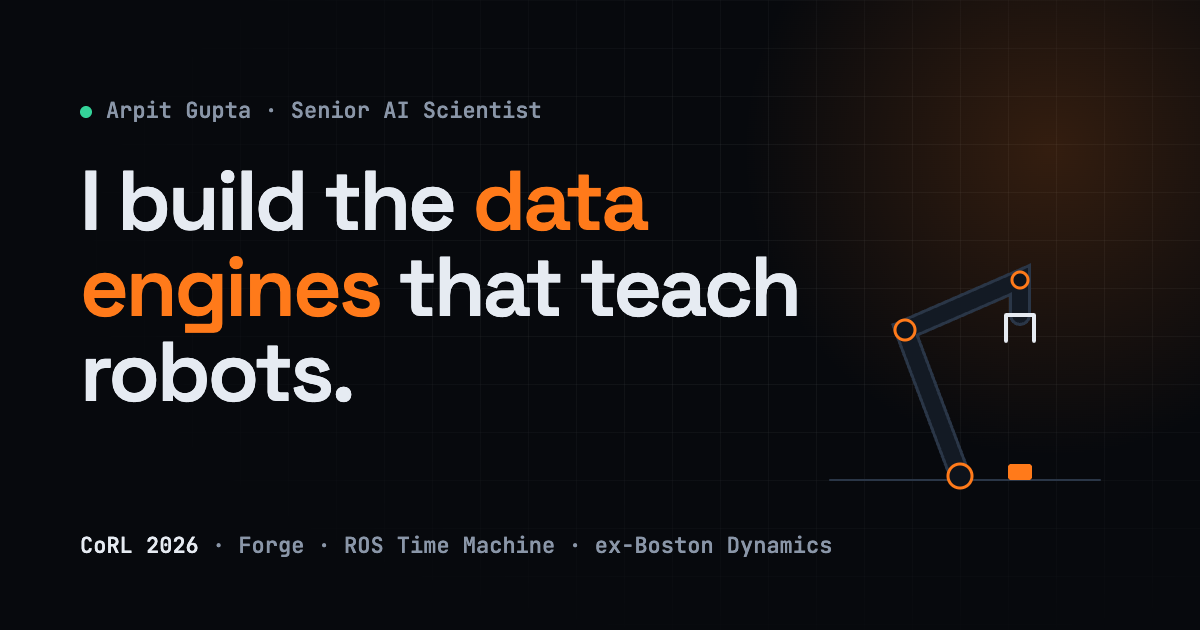
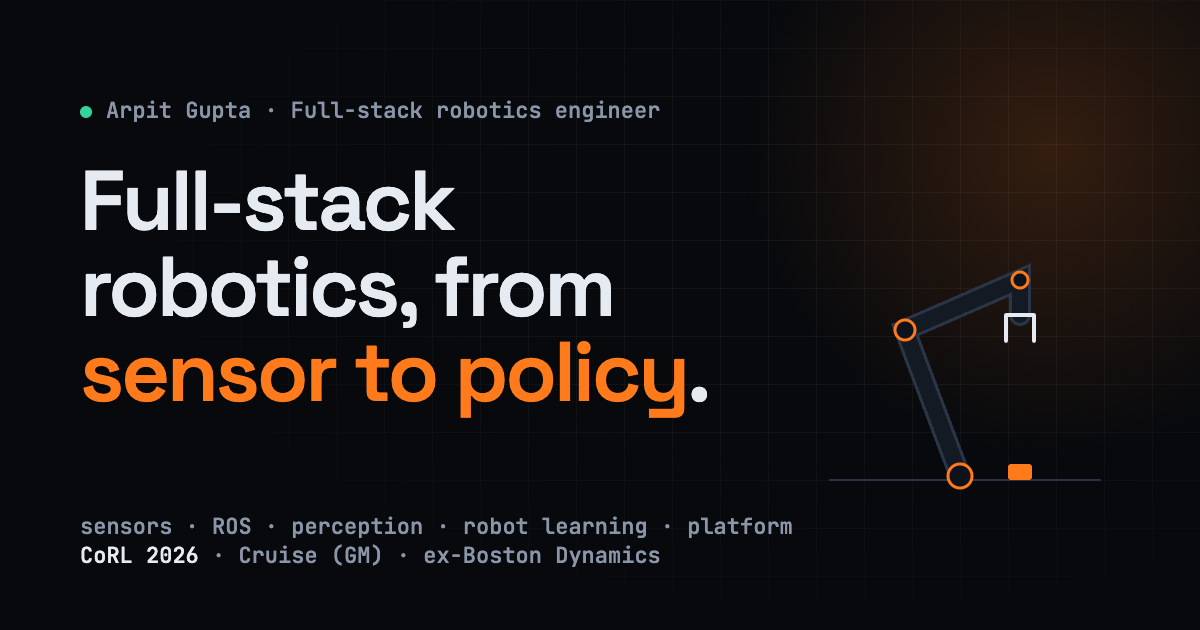
Reposition as full-stack robotics engineer
- Hero: 'Full-stack robotics, from sensor to policy'
- New 'Across the stack' section: sensors & calibration, robot software,
  perception & robot learning, platform & infrastructure, each with evidence
- Reframe lifecycle, projects, experience summaries, skills, writing and
  contact copy from a robotics perspective; keep platform/infra depth
- Update meta tags, JSON-LD and OG image

diff --git a/index.html b/index.html
@@ -3,16 +3,16 @@
 <head>
   <meta charset="utf-8">
   <meta name="viewport" content="width=device-width, initial-scale=1">
-  <title>Arpit Gupta | Robot Learning Data Infrastructure</title>
-  <meta name="description" content="Arpit Gupta is a Senior AI Scientist at Cruise (General Motors). He builds the data engines behind robot learning: VLA datasets, robotics data tooling, and open-source infrastructure. Previously Boston Dynamics, Fetch Robotics and 6 River Systems.">
+  <title>Arpit Gupta | Full-Stack Robotics Engineer</title>
+  <meta name="description" content="Arpit Gupta is a full-stack robotics engineer: sensors and calibration, ROS software, perception and robot learning, and the platforms and infrastructure underneath. Senior AI Scientist at Cruise (General Motors); previously Boston Dynamics, Fetch Robotics and 6 River Systems.">
   <meta name="author" content="Arpit Gupta">
   <meta name="theme-color" content="#07090d">
   <link rel="canonical" href="https://arpitg1304.github.io/">
 
   <meta property="og:type" content="website">
   <meta property="og:url" content="https://arpitg1304.github.io/">
-  <meta property="og:title" content="Arpit Gupta | Robot Learning Data Infrastructure">
-  <meta property="og:description" content="I build the data engines that teach robots. CoRL 2026. Forge, ROS Time Machine, Robotics Agent Skills. Previously Boston Dynamics.">
+  <meta property="og:title" content="Arpit Gupta | Full-Stack Robotics Engineer">
+  <meta property="og:description" content="Full-stack robotics, from sensor to policy. CoRL 2026 · Forge · ROS Time Machine · Robotics Agent Skills. Previously Boston Dynamics.">
   <meta property="og:image" content="https://arpitg1304.github.io/assets/img/og.png">
   <meta name="twitter:card" content="summary_large_image">
 
@@ -35,6 +35,8 @@
     "name": "Arpit Gupta",
     "url": "https://arpitg1304.github.io/",
     "jobTitle": "Senior AI Scientist",
+    "description": "Full-stack robotics engineer: sensors, ROS software, perception, robot learning and the platforms underneath.",
+    "knowsAbout": ["Robotics", "ROS 2", "Robot perception", "Sensor calibration", "Robot learning", "Vision-Language-Action models", "Robotics data infrastructure"],
     "worksFor": { "@type": "Organization", "name": "General Motors" },
     "alumniOf": "Worcester Polytechnic Institute",
     "sameAs": ["https://github.com/arpitg1304", "https://www.linkedin.com/in/arpit-gupta-wpi/"]
@@ -54,7 +56,7 @@
         <span class="brand__name">Arpit Gupta</span>
       </a>
       <nav class="nav__links" aria-label="Primary">
-        <a href="#stack">Stack</a>
+        <a href="#about">About</a>
         <a href="#research">Research</a>
         <a href="#projects">Projects</a>
         <a href="#experience">Experience</a>
@@ -79,13 +81,13 @@
     <section class="hero" id="top">
       <div class="hero__grid wrap">
         <div class="hero__copy">
-          <p class="eyebrow reveal"><span class="dot dot--live"></span>Senior AI Scientist · Cruise, General Motors</p>
-          <h1 class="hero__title reveal">I build the <span class="hl">data engines</span> that teach robots.</h1>
+          <p class="eyebrow reveal"><span class="dot dot--live"></span>Full-stack robotics engineer · Senior AI Scientist at Cruise (GM)</p>
+          <h1 class="hero__title reveal">Full-stack robotics, from <span class="hl">sensor to policy</span>.</h1>
           <p class="hero__lede reveal">
-            Robot learning runs on data. For seven years I've built the pipelines, platforms and tools that
-            collect it, clean it and get it into training: VLA foundation-model data for
-            <strong>Atlas</strong> and <strong>Spot</strong> at Boston Dynamics, perception on
-            <strong>1,000+ deployed warehouse robots</strong>, and now autonomy data at Cruise.
+            I work across the whole robot: sensors and calibration, ROS software and perception, the learned
+            policies on top, and the platform and infrastructure robot learning runs on. That's meant
+            <strong>1,000+ deployed warehouse robots</strong>, VLA work on <strong>Atlas</strong> and
+            <strong>Spot</strong> at Boston Dynamics, and now autonomy at Cruise.
           </p>
           <div class="hero__cta reveal">
             <a class="btn btn--primary" href="#projects">See the work <span aria-hidden="true">→</span></a>
@@ -119,27 +121,77 @@
 
       <div class="wrap">
         <dl class="stats reveal">
-          <div class="stat"><dt>GitHub stars across my open-source robotics tools</dt><dd><span data-count="620" id="starTotal">620</span>+</dd></div>
-          <div class="stat"><dt>Warehouse robots running perception models I shipped</dt><dd>1,000+</dd></div>
-          <div class="stat"><dt>ML researchers on the data platform I built at Boston Dynamics</dt><dd>50+</dd></div>
-          <div class="stat"><dt>Faster calibration per site: 4 hours down to 15 minutes</dt><dd>16×</dd></div>
+          <div class="stat"><dt>Warehouse robots running perception I shipped</dt><dd>1,000+</dd></div>
+          <div class="stat"><dt>Faster sensor calibration per site: 4 hours down to 15 minutes</dt><dd>16×</dd></div>
+          <div class="stat"><dt>Researchers on the robot-learning platform I built at Boston Dynamics</dt><dd>50+</dd></div>
+          <div class="stat"><dt>GitHub stars on my open-source robotics tools</dt><dd><span id="starTotal">620</span>+</dd></div>
         </dl>
       </div>
     </section>
 
-    <!-- ============ STACK / LIFECYCLE ============ -->
-    <section class="section" id="stack">
+    <!-- ============ ABOUT / LAYERS ============ -->
+    <section class="section" id="about">
       <div class="wrap">
         <header class="section__head reveal">
-          <p class="kicker mono">01 / The stack</p>
-          <h2>One robot-data stack, from the moment of capture to the training loop.</h2>
-          <p class="section__lede">My open-source projects aren't one-offs. Each one covers a stage of the robot-learning data lifecycle, the same problems I solve at work at fleet scale. Hover over a stage to see the tools for it.</p>
+          <p class="kicker mono">01 / Across the stack</p>
+          <h2>A robotics engineer who works every layer of the robot.</h2>
+          <p class="section__lede">Robots fail at the seams: a calibration that drifts, a ROS node that drops frames, a model that ships but can't be retrained, a platform nobody can query. I've built every layer on real robots in production, and I design each one with the next in mind.</p>
+        </header>
+
+        <ol class="layers">
+          <li class="layer reveal">
+            <div class="layer__id"><span class="layer__n mono">L4</span><h3>Platform &amp; infrastructure</h3></div>
+            <p class="layer__what">The data platforms, pipelines and training infrastructure that turn robot logs into models, and models back into robots.</p>
+            <ul class="layer__ev">
+              <li>PB-scale robot-learning data platform for 50+ researchers at Boston Dynamics</li>
+              <li>On-robot model deployment with ONNX and TensorRT, serving 1M+ inferences a day</li>
+              <li><a href="#p-forge">Forge</a> · <a href="#p-tessera">Tessera</a> · <a href="#research">CoRL 2026</a></li>
+            </ul>
+          </li>
+          <li class="layer reveal">
+            <div class="layer__id"><span class="layer__n mono">L3</span><h3>Perception &amp; robot learning</h3></div>
+            <p class="layer__what">Models that see and act: detection and segmentation running on robots, and the VLA and imitation-learning policies on top.</p>
+            <ul class="layer__ev">
+              <li>Multimodal VLA training data for Atlas and Spot (RGB-D, proprioception, force/torque)</li>
+              <li>YOLO and U-Net perception for people, robots and forklifts on Fetch and 6RS fleets</li>
+              <li>VLM scene understanding over fleet logs at Cruise</li>
+            </ul>
+          </li>
+          <li class="layer reveal">
+            <div class="layer__id"><span class="layer__n mono">L2</span><h3>Robot software</h3></div>
+            <p class="layer__what">ROS systems that hold up in production: correct QoS, lifecycle nodes, bounded callbacks, recording and bringup.</p>
+            <ul class="layer__ev">
+              <li>Perception nodes running on 1,000+ deployed warehouse robots</li>
+              <li><a href="#p-rtm">ROS Time Machine</a>: event-triggered MCAP recording in C++17 / ROS 2</li>
+              <li><a href="#p-skills">Robotics Agent Skills</a>: production ROS patterns for AI coding agents</li>
+            </ul>
+          </li>
+          <li class="layer reveal">
+            <div class="layer__id"><span class="layer__n mono">L1</span><h3>Sensors &amp; calibration</h3></div>
+            <p class="layer__what">Clean, trustworthy signals: cameras, depth, LiDAR and IMUs, calibrated and fused.</p>
+            <ul class="layer__ev">
+              <li>Point-cloud camera calibration that cut site setup from 4 hours to 15 minutes (patent filed)</li>
+              <li>Monocular SLAM scale from ground planes plus CAN bus and IMU fusion at Panasonic</li>
+              <li><a href="#p-anvil">Anvil</a>: catch scene and camera drift between collection sessions</li>
+            </ul>
+          </li>
+        </ol>
+      </div>
+    </section>
+
+    <!-- ============ LOOP / LIFECYCLE ============ -->
+    <section class="section section--alt" id="stack">
+      <div class="wrap">
+        <header class="section__head reveal">
+          <p class="kicker mono">02 / The robot-learning loop</p>
+          <h2>From the robot's ROS graph to the training loop, and back.</h2>
+          <p class="section__lede">Robot learning is a systems problem. My open-source tools each cover one stage of the loop, the same problems I work on at fleet scale. Hover over a stage to see its tools.</p>
         </header>
 
         <ol class="pipeline reveal" id="pipeline">
           <li class="stage" data-stage="capture">
             <span class="stage__n mono">01</span>
-            <h3>Capture</h3>
+            <h3>Capture on-robot</h3>
             <p>Record the seconds before the moment that matters, and generate demonstrations in sim.</p>
             <ul class="stage__tools"><li><a href="#p-rtm">ROS Time Machine</a></li><li><a href="#p-armature">Armature</a></li></ul>
           </li>
@@ -173,10 +225,10 @@
     </section>
 
     <!-- ============ RESEARCH ============ -->
-    <section class="section section--alt" id="research">
+    <section class="section" id="research">
       <div class="wrap">
         <header class="section__head reveal">
-          <p class="kicker mono">02 / Research</p>
+          <p class="kicker mono">03 / Research</p>
           <h2>Publication</h2>
         </header>
 
@@ -245,18 +297,18 @@
     </section>
 
     <!-- ============ PROJECTS ============ -->
-    <section class="section" id="projects">
+    <section class="section section--alt" id="projects">
       <div class="wrap">
         <header class="section__head reveal">
-          <p class="kicker mono">03 / Open source</p>
-          <h2>Tools I've built for people who train robots.</h2>
-          <p class="section__lede">Tools for the problems I kept running into at Boston Dynamics, Fetch and 6 River Systems, open-sourced so other teams don't have to rewrite them.</p>
+          <p class="kicker mono">04 / Open source</p>
+          <h2>Open-source robotics, from ROS nodes to training loops.</h2>
+          <p class="section__lede">I built these to solve problems I hit shipping robots at 6 River Systems, Fetch and Boston Dynamics, and open-sourced them so other robotics teams don't have to rebuild them.</p>
         </header>
 
         <div class="filters reveal" role="group" aria-label="Filter projects">
           <button class="chip is-on" data-filter="all">All</button>
-          <button class="chip" data-filter="data">Datasets &amp; data</button>
-          <button class="chip" data-filter="ros">ROS</button>
+          <button class="chip" data-filter="ros">ROS &amp; robot software</button>
+          <button class="chip" data-filter="data">Robot learning data</button>
           <button class="chip" data-filter="sim">Sim &amp; visual</button>
           <button class="chip" data-filter="ai">AI agents &amp; tools</button>
         </div>
@@ -392,10 +444,10 @@
     </section>
 
     <!-- ============ EXPERIENCE ============ -->
-    <section class="section section--alt" id="experience">
+    <section class="section" id="experience">
       <div class="wrap">
         <header class="section__head reveal">
-          <p class="kicker mono">04 / Experience</p>
+          <p class="kicker mono">05 / Experience</p>
           <h2>From warehouse fleets to humanoids to autonomous vehicles.</h2>
         </header>
 
@@ -407,7 +459,7 @@
               <span class="job__chev" aria-hidden="true"></span>
             </button>
             <div class="job__body"><div class="job__body-inner">
-              <p class="job__sum">Data for on-board autonomy models: mining the rare, safety-critical moments in fleet logs and turning them into VLM/VLA training data.</p>
+              <p class="job__sum">Scene understanding for on-board autonomy: mining rare, safety-critical moments from fleet logs and turning them into VLM/VLA training data.</p>
               <ul>
                 <li>Built heuristic-driven mining pipelines that surface rare and safety-critical driving scenarios from large-scale fleet logs.</li>
                 <li>Enriched mined clips with the Cosmos-3 VLM to auto-generate semantic captions and scene metadata for downstream training.</li>
@@ -424,7 +476,7 @@
               <span class="job__chev" aria-hidden="true"></span>
             </button>
             <div class="job__body"><div class="job__body-inner">
-              <p class="job__sum">Data infrastructure for Vision-Language-Action foundation-model research on <strong>Atlas</strong> and <strong>Spot</strong>.</p>
+              <p class="job__sum">The robot-learning platform behind Vision-Language-Action foundation models for <strong>Atlas</strong> and <strong>Spot</strong>, from multimodal robot logs to training-ready data.</p>
               <ul>
                 <li>Unified RGB-D video, proprioception and force/torque streams into multimodal training datasets for VLA policies.</li>
                 <li>Built a distributed data platform used by <strong>50+ ML researchers</strong> for PB-scale dataset search, curation, filtering and lineage.</li>
@@ -461,7 +513,7 @@
               <span class="job__chev" aria-hidden="true"></span>
             </button>
             <div class="job__body"><div class="job__body-inner">
-              <p class="job__sum">Perception and ML deployment for a fleet of <strong>1,000+</strong> collaborative warehouse robots.</p>
+              <p class="job__sum">Perception, sensor calibration and on-robot ML for a fleet of <strong>1,000+</strong> collaborative warehouse robots.</p>
               <ul>
                 <li>Shipped YOLO-based detection of people, robots and forklifts for collision avoidance across the deployed fleet.</li>
                 <li>Invented a point-cloud camera-calibration method (gradient descent on ground-plane estimates) that cut per-site setup from <strong>4 hours to 15 minutes</strong>. Patent filed.</li>
@@ -512,12 +564,12 @@
     </section>
 
     <!-- ============ WRITING + SKILLS ============ -->
-    <section class="section" id="writing">
+    <section class="section section--alt" id="writing">
       <div class="wrap">
         <header class="section__head reveal">
-          <p class="kicker mono">05 / Writing &amp; toolbox</p>
-          <h2>Thinking in public about robot data.</h2>
-          <p class="section__lede">I write regularly on LinkedIn about the data problem in embodied AI: why it exists, how big it is, and what we can do about it.</p>
+          <p class="kicker mono">06 / Writing &amp; toolbox</p>
+          <h2>Thinking in public about embodied AI.</h2>
+          <p class="section__lede">I write on LinkedIn about where robotics is headed: the data gap, VLAs, sim versus real, and what it takes to build robots that learn.</p>
         </header>
 
         <div class="writing reveal">
@@ -527,20 +579,20 @@
         </div>
 
         <div class="skills reveal">
-          <div class="skill"><h3 class="mono">robot learning data</h3><p>VLA datasets · LeRobot · RLDS / Open-X · HDF5 · Zarr · MCAP · rosbag · dataset curation · active learning · annotation pipelines</p></div>
-          <div class="skill"><h3 class="mono">ml &amp; perception</h3><p>PyTorch · TensorFlow · CLIP / SigLIP · SAM · VLMs · YOLO · U-Net · ViT · ONNX / TensorRT · quantization</p></div>
-          <div class="skill"><h3 class="mono">data infrastructure</h3><p>Kubernetes · Airflow · Ray · FastAPI · PostgreSQL · DuckDB · BigQuery · GCP · AWS · Docker</p></div>
-          <div class="skill"><h3 class="mono">robotics</h3><p>ROS / ROS 2 · calibration · SLAM / VIO · point clouds (PCL) · LiDAR · RGB-D & stereo · IMU fusion · NVIDIA Jetson</p></div>
+          <div class="skill"><h3 class="mono">robot software</h3><p>ROS / ROS 2 · C++ and Python nodes · lifecycle &amp; QoS · MCAP / rosbag · bringup · Docker · NVIDIA Jetson</p></div>
+          <div class="skill"><h3 class="mono">sensing &amp; perception</h3><p>Camera &amp; LiDAR calibration · SLAM / VIO · point clouds (PCL) · RGB-D &amp; stereo · IMU fusion · YOLO · U-Net · SAM</p></div>
+          <div class="skill"><h3 class="mono">robot learning</h3><p>VLA &amp; imitation learning · LeRobot · RLDS / Open-X · VLMs · CLIP / SigLIP · PyTorch · ONNX / TensorRT · quantization</p></div>
+          <div class="skill"><h3 class="mono">platform &amp; infra</h3><p>Kubernetes · Airflow · Ray · FastAPI · PostgreSQL · DuckDB · BigQuery · GCP · AWS · dataset versioning &amp; lineage</p></div>
           <div class="skill"><h3 class="mono">languages</h3><p>Python · C++ · TypeScript / JavaScript · SQL · MATLAB</p></div>
         </div>
       </div>
     </section>
 
     <!-- ============ ARCHIVE ============ -->
-    <section class="section section--alt" id="archive">
+    <section class="section" id="archive">
       <div class="wrap">
         <header class="section__head reveal">
-          <p class="kicker mono">06 / Archive · 2017–2019</p>
+          <p class="kicker mono">07 / Archive · 2017–2019</p>
           <h2>Grad-school lab notebook.</h2>
           <p class="section__lede">Where it started at WPI: visual servoing, learned odometry, surgical haptics. Hover over a project to play it.</p>
         </header>
@@ -560,9 +612,9 @@
     <!-- ============ CONTACT ============ -->
     <section class="section contact" id="contact">
       <div class="wrap contact__inner reveal">
-        <p class="kicker mono">07 / Contact</p>
-        <h2 class="contact__title">Building robots that learn?<br><span class="hl">Let's talk about your data.</span></h2>
-        <p class="section__lede">I'm happy to talk about robot-learning data infrastructure, VLA datasets, open-source collaboration or speaking.</p>
+        <p class="kicker mono">08 / Contact</p>
+        <h2 class="contact__title">Building robots?<br><span class="hl">Let's talk shop.</span></h2>
+        <p class="section__lede">Robot software, perception, robot learning or the platform underneath, plus open-source collaboration and speaking.</p>
         <div class="contact__cta">
           <a class="btn btn--primary btn--lg" href="mailto:arpit.wpi@gmail.com">arpit.wpi@gmail.com</a>
           <a class="btn btn--lg" href="https://www.linkedin.com/in/arpit-gupta-wpi/" target="_blank" rel="noopener">LinkedIn ↗</a>

diff --git a/assets/css/style.css b/assets/css/style.css
@@ -198,7 +198,7 @@ strong { color: var(--text); font-weight: 600; }
   filter: blur(10px);
 }
 .hero__grid { display: grid; grid-template-columns: 1.08fr .92fr; gap: 56px; align-items: center; }
-.hero__title { font-size: clamp(42px, 6.4vw, 78px); line-height: 1.02; letter-spacing: -0.035em; font-weight: 600; }
+.hero__title { font-size: clamp(40px, 5.6vw, 70px); line-height: 1.02; letter-spacing: -0.035em; font-weight: 600; }
 .hero__lede { font-size: 18.5px; color: var(--muted); max-width: 580px; margin: 28px 0 34px; }
 .hero__cta { display: flex; flex-wrap: wrap; gap: 12px; }
 .hero__social { list-style: none; padding: 0; margin: 30px 0 0; display: flex; flex-wrap: wrap; gap: 22px; font: 500 13.5px/1 var(--f-mono); }
@@ -536,3 +536,53 @@ input[type="range"]::-moz-range-thumb { width: 14px; height: 14px; border-radius
 
 /* Grid children must be allowed to shrink below their content (canvas/pre) width. */
 .hero__grid > *, .paper > *, .proj > *, .proj-grid > *, .pipeline > *, .edu > *, .writing > *, .archive > * { min-width: 0; }
+
+/* ---------- About: the robot stack (L4 top → L1 bottom) ---------- */
+.layers { list-style: none; margin: 0; padding: 0 0 0 56px; display: flex; flex-direction: column; gap: 12px; position: relative; }
+.layers::before {
+  content: ""; position: absolute; left: 17px; top: 28px; bottom: 28px; width: 2px;
+  background: repeating-linear-gradient(180deg, var(--line-strong) 0 6px, transparent 6px 12px);
+}
+.layers::after {
+  content: ""; position: absolute; left: 14px; width: 8px; height: 8px; border-radius: 50%;
+  background: var(--cyan); box-shadow: 0 0 12px var(--cyan);
+  animation: rise 5s linear infinite;
+}
+@keyframes rise { from { top: calc(100% - 32px); opacity: 0; } 8% { opacity: 1; } 92% { opacity: 1; } to { top: 24px; opacity: 0; } }
+.layer {
+  position: relative;
+  display: grid; grid-template-columns: 270px 1fr 1.15fr; gap: 28px; align-items: start;
+  padding: 26px 28px; border: 1px solid var(--line); border-radius: var(--r); background: var(--surface);
+  transition: border-color .25s var(--ease), transform .25s var(--ease);
+}
+.layer::before {
+  content: ""; position: absolute; left: -45px; top: 30px; width: 14px; height: 14px; border-radius: 50%;
+  background: var(--bg); border: 2px solid var(--line-strong); transition: all .25s;
+}
+.layer:hover { border-color: var(--accent); transform: translateX(4px); }
+.layer:hover::before { background: var(--accent); border-color: var(--accent); box-shadow: 0 0 0 5px var(--accent-soft); }
+.layer__id { display: flex; flex-direction: column; gap: 10px; }
+.layer__n {
+  align-self: flex-start; font-size: 12px; padding: 4px 8px; border-radius: 6px;
+  color: var(--accent); background: var(--accent-soft);
+}
+.layer h3 { font-size: 22px; }
+.layer__what { margin: 0; color: var(--text); font-size: 15.5px; line-height: 1.55; }
+.layer__ev { list-style: none; margin: 0; padding: 0; display: flex; flex-direction: column; gap: 8px; }
+.layer__ev li { position: relative; padding-left: 18px; color: var(--muted); font-size: 14px; line-height: 1.5; }
+.layer__ev li::before { content: "▸"; position: absolute; left: 0; color: var(--accent); font-size: 11px; top: 2px; }
+.layer__ev a { color: var(--text); border-bottom: 1px solid var(--line-strong); }
+.layer__ev a:hover { color: var(--accent); border-color: var(--accent); }
+
+@media (max-width: 1080px) {
+  .layer { grid-template-columns: 220px 1fr; }
+  .layer__ev { grid-column: 2; }
+}
+@media (max-width: 640px) {
+  .layers { padding-left: 30px; }
+  .layers::before { left: 7px; }
+  .layers::after { left: 4px; }
+  .layer::before { left: -29px; }
+  .layer { grid-template-columns: 1fr; gap: 14px; padding: 22px; }
+  .layer__ev { grid-column: auto; }
+}
